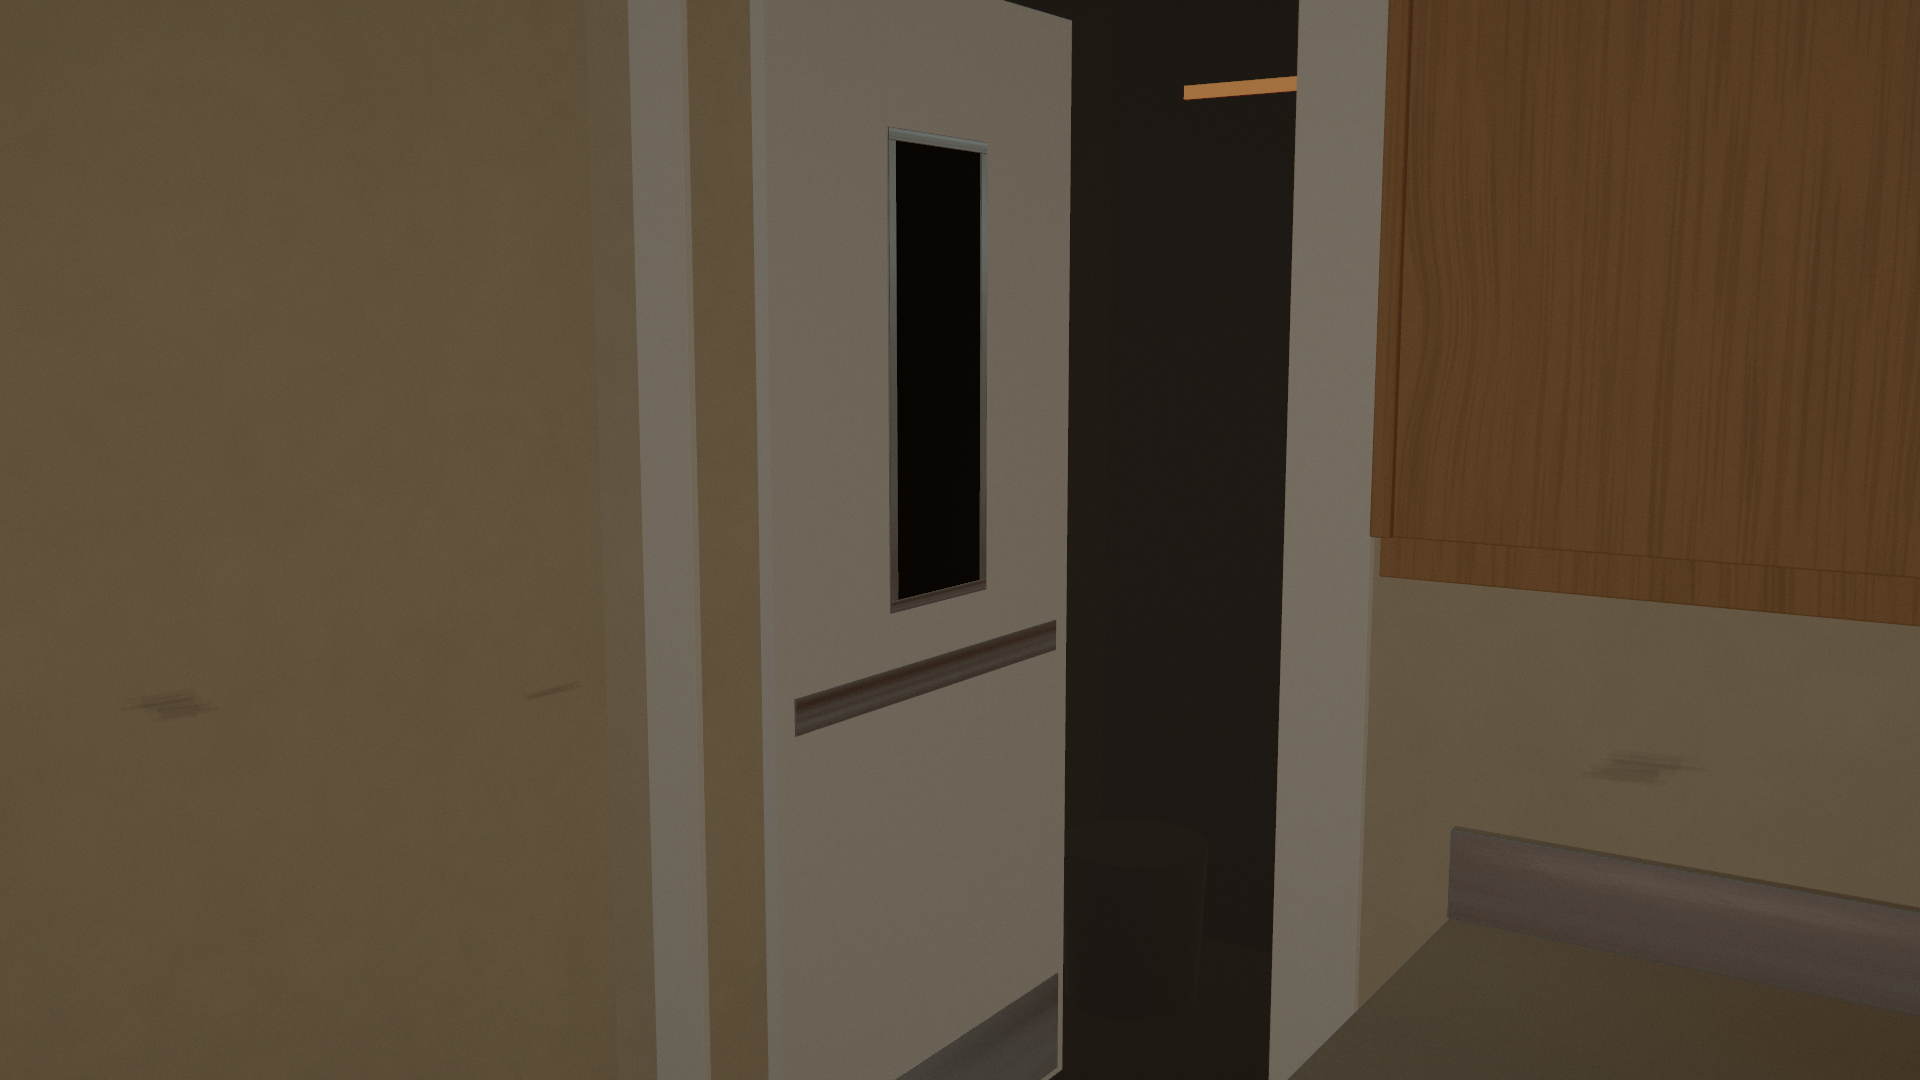
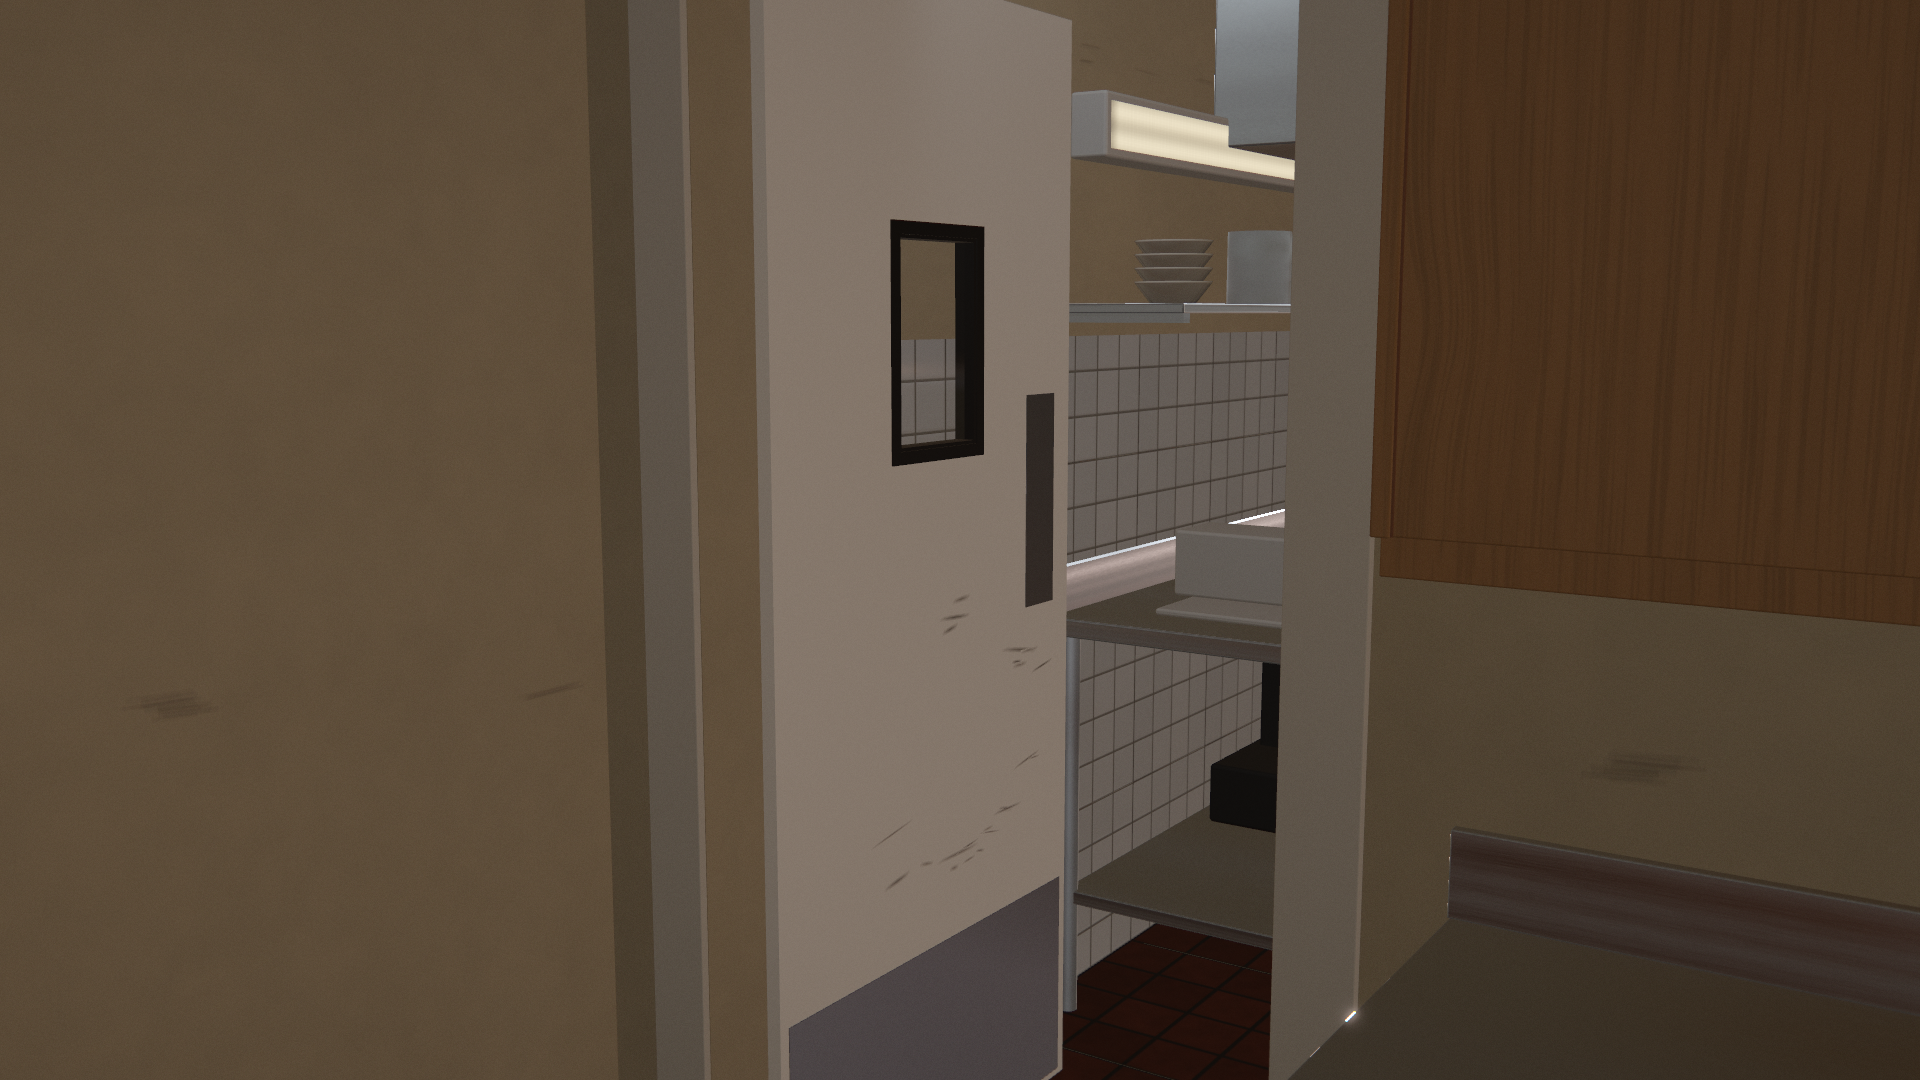
sys9 rev2 WIP: frames re-shot (apron/plate/cup/cabinet/kitchen door, drink/cabinet/kitchen-door sheets), cardigan frame dropped, textureBank comment

diff --git a/src/scene/Openables.ts b/src/scene/Openables.ts
@@ -16,7 +16,7 @@
  * a 2.7 m deep room in white 4" wall tile to 1.5 m over a red quarry floor, a stainless prep
  * table with a shelf over it along the -x wall, a range under a stainless hood on the far
  * wall, a fluorescent strip fixture on the -x wall (palette `fixtureLens` emissive, the
- * troffers' 4100 K tube tint) and one shadowless FLUORESCENT spot at the ceiling (9,000 lm,
+ * troffers' tube tint) and one shadowless 5000 K spot at the ceiling (16,000 lm,
  * aimed down and away from the door so its cone stops inside the kitchen — no light on the
  * dining-room floor). Lit surfaces reach the probe, so the vision glass shows them too.
  *
@@ -35,7 +35,7 @@ import type { Palette } from "../core/materials";
 import { MergedBuilder } from "../core/merge";
 import { PRESENCE_UV } from "../procedural/presence";
 import { BACK_BAR, KITCHEN_DOOR, ROOM } from "./layout";
-import { FLUORESCENT, nits } from "./Lighting";
+import { nits } from "./Lighting";
 import { lathe, ribbon, SAUCER_PROFILE, tiledRect, uvIntoRect } from "./Presence";
 
 export interface HingedLeaf {
@@ -55,6 +55,8 @@ export interface OpenablesResult {
   kitchenDoor: HingedLeaf;
   /** The kitchen slice's fluorescent spot (Lighting-independent; here so Diner can count it). */
   kitchenLight: THREE.SpotLight;
+  /** Door materials whose metal lives in the vertex alpha: Diner gives them the metal probe. */
+  envMetals: THREE.MeshStandardMaterial[];
 }
 
 const V2 = (x: number, y: number) => new THREE.Vector2(x, y);
@@ -107,10 +109,12 @@ export function tint(g: THREE.BufferGeometry, hex: number, metal = false): THREE
 
 export function buildOpenables(parent: THREE.Group, pal: Palette, statics: MergedBuilder, cloth: THREE.Material): OpenablesResult {
   const kitchen = buildKitchenDoor(parent, pal, statics, cloth);
+  const cabinet = buildCabinet(parent, pal, statics, cloth);
   return {
-    cabinet: buildCabinet(parent, pal, statics, cloth),
+    cabinet: cabinet.leaves,
     kitchenDoor: kitchen.leaf,
     kitchenLight: kitchen.light,
+    envMetals: [cabinet.material, kitchen.material],
   };
 }
 
@@ -118,7 +122,7 @@ export function buildOpenables(parent: THREE.Group, pal: Palette, statics: Merge
 /* Under-counter cabinet                                                                  */
 /* ------------------------------------------------------------------------------------ */
 
-function buildCabinet(parent: THREE.Group, pal: Palette, s: MergedBuilder, cloth: THREE.Material): [HingedLeaf, HingedLeaf] {
+function buildCabinet(parent: THREE.Group, pal: Palette, s: MergedBuilder, cloth: THREE.Material): { leaves: [HingedLeaf, HingedLeaf]; material: THREE.MeshStandardMaterial } {
   const [x0, x1] = BACK_BAR.cabinet;
   const zFront = BACK_BAR.zFront, zBack = zFront - BACK_BAR.depth;
   const y0 = 0.1, y1 = BACK_BAR.height - 0.03 - 0.02; // the bay Counter.ts cuts: kick to under the top
@@ -364,7 +368,7 @@ function buildCabinet(parent: THREE.Group, pal: Palette, s: MergedBuilder, cloth
       }
     };
   }
-  return leaves;
+  return { leaves, material: doorMat };
 }
 
 /* ------------------------------------------------------------------------------------ */
@@ -376,7 +380,7 @@ const VISION = { w: 0.229, h: 0.356, centerY: 1.5 };
 /** Kitchen slice depth and width (m) behind the partition. */
 const KITCHEN_DEPTH = 2.7;
 
-function buildKitchenDoor(parent: THREE.Group, pal: Palette, s: MergedBuilder, cloth: THREE.Material): { leaf: HingedLeaf; light: THREE.SpotLight } {
+function buildKitchenDoor(parent: THREE.Group, pal: Palette, s: MergedBuilder, cloth: THREE.Material): { leaf: HingedLeaf; light: THREE.SpotLight; material: THREE.MeshStandardMaterial } {
   const T = ROOM.wallThickness, zBack = ROOM.zBack;
   const x0 = KITCHEN_DOOR.centerX - KITCHEN_DOOR.width / 2, x1 = KITCHEN_DOOR.centerX + KITCHEN_DOOR.width / 2;
   const h = KITCHEN_DOOR.height;
@@ -626,7 +630,10 @@ function buildKitchenDoor(parent: THREE.Group, pal: Palette, s: MergedBuilder, c
   // the door (what the vision glass shows); its +z edge misses every dining-room point
   // (≥ 52° off-axis at the wall's foot, through the partition — there is no shadow map), so
   // no light pools on the dining floor. `distance` 6 m clips the rest.
-  const light = new THREE.SpotLight(FLUORESCENT, nits(16_000 / Math.PI), 6, THREE.MathUtils.degToRad(46), 0.35, 2);
+  // Cooler than the dining room's FLUORESCENT (a 5000 K "daylight" tube against the 3500 K
+  // troffers): the mixed-light cast through the doorway is what says "kitchen" in a photo.
+  const KITCHEN_TUBE = new THREE.Color().setRGB(232 / 255, 241 / 255, 1, THREE.SRGBColorSpace);
+  const light = new THREE.SpotLight(KITCHEN_TUBE, nits(16_000 / Math.PI), 6, THREE.MathUtils.degToRad(46), 0.35, 2);
   light.castShadow = false;
   light.name = "kitchen-fluorescent";
   light.position.set(kx0 + 0.3, H - 0.1, zIn - 0.2);
@@ -642,5 +649,6 @@ function buildKitchenDoor(parent: THREE.Group, pal: Palette, s: MergedBuilder, c
       width: w,
     },
     light,
+    material: leafMat,
   };
 }

diff --git a/src/scene/Diner.ts b/src/scene/Diner.ts
@@ -171,6 +171,9 @@ export class Diner {
       for (const m of Object.values(this.palette)) {
         if (m instanceof THREE.MeshStandardMaterial && m.metalness >= 0.9 && !propSet.has(m) && !exteriorMats.has(m)) metalMats.push(m);
       }
+      // System 9's two door materials carry their stainless / chrome in the vertex alpha
+      // (one bucket per door): they take the metal probe so the plates and pulls mirror the room.
+      metalMats.push(...this.sys9.openables.envMetals);
       const assign = (mats: Iterable<THREE.MeshStandardMaterial>, env: THREE.Texture | null) => {
         for (const m of mats) {
           m.envMap = env;

diff --git a/src/procedural/presence.ts b/src/procedural/presence.ts
@@ -407,7 +407,7 @@ export function presenceAtlas(size = 1024): PresenceSet {
           height[(Y0 + y) * S + X0 + x] = 0.25;
         } else {
           const tone = tones[ty * N + tx] * (0.99 + 0.02 * (grainN(u * 2, v * 2) - 0.5));
-          px(X0 + x, Y0 + y, 0.93 * tone, 0.93 * tone, 0.9 * tone);
+          px(X0 + x, Y0 + y, 0.9 * tone, 0.92 * tone, 0.93 * tone); // a cool white: the glaze must not read cream under 4100 K
           rough[(Y0 + y) * S + X0 + x] = 0.17 + 0.03 * (grainN(u * 5, v * 5) - 0.5);
           height[(Y0 + y) * S + X0 + x] = 0.25 + 0.4 * cushion;
         }

diff --git a/src/core/textureBank.ts b/src/core/textureBank.ts
@@ -66,7 +66,7 @@ const SHAPES: Record<string, Record<string, Shape>> = {
     blockWall: ["map", "roughnessMap"],
     contactShadowAlpha: "direct",
   },
-  // System 9 (src/procedural/presence.ts): the apron / cardigan / newspaper / plate atlas.
+  // System 9 (src/procedural/presence.ts): the apron / plate / cup / kitchen-tile atlas.
   pres: {
     presenceAtlas: ["map", "roughnessMap", "normalMap"],
   },
